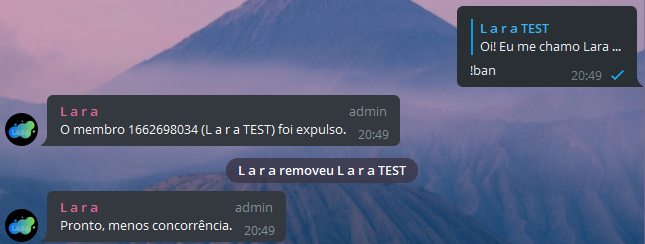
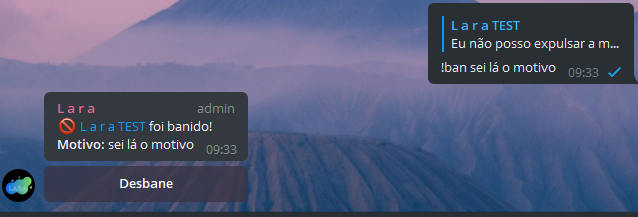
FEAT: Add Ban/Unban command

diff --git a/src/services/Verification-service/VerificationRepository.ts b/src/services/Verification-service/VerificationRepository.ts
@@ -2,23 +2,19 @@ import { IVerificationRepository } from './IVerificationRepository'
 import { maliciousLinkController } from '@database'
 import { compareTwoStrings } from 'string-similarity'
 import { Response } from '@dtos'
-import { URL } from 'url'
 
 
 export class VerificationRepository implements IVerificationRepository {
   async find_malicious_links(words:string[]): Promise<Response.Verification> {
     const result = {messages:[{text:'<b>PERSON</b>, não mande links maliciosos...'}], malicious:false}
 
-    const urls = this.get_urls_from_message(words).map(url => {
-      const parts = url.split('.')
-      return parts[0] === 'www' ? parts[1] : parts[0]
-    })
-
-    const maliciousUrls = await maliciousLinkController.find_all()
+    const urls = this.get_urls_from_message(words)
+    const maliciousUrls:string[] = []
+    await maliciousLinkController.find_all()
       .then(links => { 
-        if (links) return links.map(uri => { return new URL(String(uri.link_url)).hostname })
+        if (links) links.map(uri => maliciousUrls.push(this.get_urls_from_message([String(uri.link_url)])[0]) )
       })
-    
+
     if (maliciousUrls != null)
       urls.forEach(url => maliciousUrls.forEach(link => {
         if (compareTwoStrings(url, link) < 0.8) return
@@ -32,15 +28,20 @@ export class VerificationRepository implements IVerificationRepository {
     const urls:string[] = []
     const isURLRegex = 
       /^(?:(?:https?|ftp):\/\/)?(?:(?!(?:10|127)(?:\.\d{1,3}){3})(?!(?:169\.254|192\.168)(?:\.\d{1,3}){2})(?!172\.(?:1[6-9]|2\d|3[0-1])(?:\.\d{1,3}){2})(?:[1-9]\d?|1\d\d|2[01]\d|22[0-3])(?:\.(?:1?\d{1,2}|2[0-4]\d|25[0-5])){2}(?:\.(?:[1-9]\d?|1\d\d|2[0-4]\d|25[0-4]))|(?:(?:[a-z\u00a1-\uffff0-9]-*)*[a-z\u00a1-\uffff0-9]+)(?:\.(?:[a-z\u00a1-\uffff0-9]-*)*[a-z\u00a1-\uffff0-9]+)*(?:\.(?:[a-z\u00a1-\uffff]{2,})))(?::\d{2,5})?(?:\/\S*)?$/
-    
-    
 
-    words.forEach(word => { 
-      const irURL = isURLRegex.test(word)
-      try {
+    words.forEach(word => {
+      if (!isURLRegex.test(word)) return
 
-        urls.push(new URL(word).hostname)
-      } catch (err) {null}
+      let hostname:string
+    
+      if (word.indexOf('://') > -1) hostname = word.split('/')[2]
+      else hostname = word.split('/')[0]
+      
+      if (word.indexOf('www.') > -1) hostname = word.split('www.')[1]
+      hostname = hostname.split(':')[0]
+      hostname = hostname.split('?')[0]
+  
+      urls.push(hostname)
     })
     return urls
   }

diff --git a/src/services/Command-service/CommandController.ts b/src/services/Command-service/CommandController.ts
@@ -1,49 +1,13 @@
-import { taskLogger, messages, prefix } from '@config'
-import { Response, Command } from '@dtos'
-import { commands } from '@commands'
+import { Response } from '@dtos'
 import { Context } from 'telegraf'
-import { is_adm } from '@helpers'
+import { CommandUseCase } from './CommandUseCase'
 
 
 export class CommandController {
-  async handle(ctx:any): Promise<Response.Message[]|any> {
-    const splitedMessage = ctx.message?.text.substring(prefix.length).split(' ')
-    const [commandName, args] = [splitedMessage[0], splitedMessage.slice(1)]
-    const calledCommand = commands.filter(c => c.name == commandName)[0]
+  constructor ( private commandUseCase:CommandUseCase ){}
 
-    const statusError = await this.validate_status(ctx, calledCommand)
-    if (statusError) return statusError
-    
-    const argumentsError = this.validate_args(calledCommand.arguments, args)
-    if (argumentsError) 
-      return [{text:messages.argsError.replace('ARGS',commandName).replace('ERRORS',argumentsError)}]
-
-    taskLogger.log_step('✅','Comando', 'END', `Usaram o comando ${commandName}`)
-    const result = await calledCommand.execute(ctx, args)
+  async handle(ctx:Context): Promise<Response.Message[]|string[]> {
+    const result = await this.commandUseCase.execute(ctx)
     return Array.isArray(result) ? result : [result]
-  }
-
-  async validate_status(ctx:Context, command:Command|null): Promise<Response.Message[]|undefined> {
-    if (!command) return [{text: messages.commandNotFound}]
-    if (command.role === 'ADM') {
-      if (!ctx.chat?.type.includes('group')) return [{text:messages.isNot_group}]
-
-      const laraIsAdm = await is_adm(ctx, Number(process.env.BOT_ID))
-      const userIsAdm = await is_adm(ctx, Number(ctx.message?.from.id))
-      
-      if (!userIsAdm) return [{text:messages.isNot_adm}]
-      if (!laraIsAdm) return [{text:messages.lara_isNot_adm}]
-    }
-  }
-
-  validate_args(cmd_args:{index:number, error:string}[], args:string[]): string|null {
-    let error_message = ''
-
-    for (const field of cmd_args)
-      error_message = args[field.index]
-        ? error_message
-        : `${error_message}❗${field.error}\n`
-        
-    return error_message !== '' ? error_message : null
   }
 }

diff --git a/src/helpers/actions.ts b/src/helpers/actions.ts
@@ -1,0 +1,60 @@
+import { chatController, commandController, verificationController } from '@services'
+import { messages, prefix, taskLogger } from '@config'
+import { groupController } from '@database'
+import { is_adm, send_response } from '@helpers'
+import { Telegraf } from 'telegraf'
+
+
+export const actions = (bot: Telegraf) => {
+  bot.use(async (ctx, next) => {
+    console.time('Processing time')
+    await next()
+    console.timeEnd('Processing time')
+  })
+
+  bot.on('text', async ctx => {
+    const verification = await verificationController.handle(ctx, 'text')
+    if (verification.malicious) return send_response(ctx, verification.messages)
+    
+    send_response(ctx, ctx.message.text.startsWith(prefix)
+      ? await commandController.handle(ctx)
+      : await chatController.handle(ctx)
+    )
+  })
+
+  bot.action('unban', async (ctx:any) => {
+    if (!is_adm(ctx, ctx.callbackQuery.from.id)) return {text: messages.isNot_adm}
+
+    const entities = ctx.callbackQuery.message?.entities
+    
+    if (entities[0].type === 'text_mention') {
+      try {
+        await ctx.unbanChatMember(entities[0].user.id)
+        await ctx.reply('📕 Usuário desbanido.')
+    
+      } catch (e) { await ctx.reply('⚠ Não posso desbanir esse usuário!' ) }
+    }
+  })
+
+  bot.on('left_chat_member', async ctx => {
+    if (ctx.chat.type === 'private') return
+    const member = ctx.update.message.left_chat_member
+  
+    if (member.id === bot.botInfo?.id) {
+      await groupController.delete_one(ctx.chat.id)
+      taskLogger.log_step('😢','REMOVED', 'ACTION', `Fui removida de ${ctx.chat.title} (${ctx.chat.id})`)
+  
+    } else if (member.is_bot)
+      return send_response(ctx, [{text: 'Pronto, menos concorrência.'}])
+  })
+
+  bot.on('new_chat_members', ctx => {
+    ctx.update.message.new_chat_members.forEach(async new_member => {
+      if (!ctx.chat.type.includes('group')) return
+      if (new_member.id !== bot.botInfo?.id) return
+      
+      groupController.register_group(ctx.chat.id)
+      send_response(ctx, [{text:messages.lara_join}])
+    })
+  })
+}

diff --git a/src/main.ts b/src/main.ts
@@ -1,7 +1,5 @@
-import { chatController, commandController, verificationController } from '@services'
-import { groupController } from '@database'
-import { messages, prefix, taskLogger, connect_mongo } from '@config'
-import { send_response } from '@helpers'
+import { messages, taskLogger, connect_mongo } from '@config'
+import { actions, send_response } from '@helpers'
 import { Telegraf } from 'telegraf'
 import chalk from 'chalk'
  
@@ -19,48 +17,11 @@ export const bot = ((): Telegraf => {
     : new Telegraf(String(process.env.BOT_TOKEN))
 })()
 
-
 bot.telegram.getMe().then(() => taskLogger.log_step('⚙','Init', 'END', 'Lara Iniciada com sucesso'))
 bot.start(ctx => send_response(ctx,[{text: messages.lara_start}]))
-
-
-bot.use(async (ctx, next) => {
-  next()
-})
-
-bot.on('text', async ctx => {
-  const verification = await verificationController.handle(ctx)
-  if (verification.malicious) return send_response(ctx, verification.messages)
-  
-  send_response(ctx, ctx.message.text.startsWith(prefix)
-    ? await commandController.handle(ctx)
-    : await chatController.handle(ctx)
-  )
-})
-
-
-bot.on('left_chat_member', async ctx => {
-  if (ctx.chat.type === 'private') return
-  const member = ctx.update.message.left_chat_member
-
-  if (member.id === bot.botInfo?.id) {
-    await groupController.delete_one(ctx.chat.id)
-    taskLogger.log_step('😢','REMOVED', 'ACTION', `Fui removida de ${ctx.chat.title} (${ctx.chat.id})`)
-
-  } else if (member.is_bot)
-    return send_response(ctx, [{text: 'Pronto, menos concorrência.'}])
-})
-
-bot.on('new_chat_members', ctx => {
-  ctx.update.message.new_chat_members.forEach(async new_member => {
-    if (!ctx.chat.type.includes('group')) return
-    if (new_member.id !== bot.botInfo?.id) return
-    
-    groupController.register_group(ctx.chat.id)
-    send_response(ctx, [{text:messages.lara_join}])
-  })
-})
-
 bot.launch({dropPendingUpdates: true})
+
+actions(bot)
+
 process.once('SIGINT', () => bot.stop('SIGINT'))
 process.once('SIGTERM', () => bot.stop('SIGTERM'))

diff --git a/src/commands/administration/ban.ts b/src/commands/administration/ban.ts
@@ -7,25 +7,30 @@ class Ban implements Command {
   public name = 'ban'
   public role = 'ADM'
   public emoji = '❌'
-  public description = 'Bane um usuário. Você pode usar o ID ou marcar uma mensagem desse usuário.'
+  public description = 
+    'Bane um usuário. <b>OBS: Você precisa marcar uma mensagem desse usuário</b>.\n\n'+
+    'Ex: PREFIXban <motivo do banimento>'
   public arguments = []
 
   
   public async execute(ctx:any, args:string[]): Promise<Response.Message> {
     const marked = ctx.update.message.reply_to_message
     
-    if (!args[0] && !marked) 
-      return {text:'Você deve marcar uma mensagem, ou colocar o ID dessa pessoa.'}
+    if (!marked) return {text:'Você deve marcar uma mensagem do usuário que quer banir.'}
+    if (!(await ctx.getChatMember(marked.from.id))) return {text:'Esse usuário não está no grupo'}
 
-    const toBan = !isNaN(Number(args[0])) ? Number(args[0]) : marked.from.id
-    const member = await ctx.getChatMember(toBan)
+    const reason = args.length === 0 ? 'Não especificado\\.' : args.join(' ')
+    const member = await ctx.getChatMember(marked.from.id)
     const isAdm = is_adm(ctx, member.user.id)
 
     if (member.user.id == bot.botInfo?.id || !isAdm) 
       return {text:'Eu não posso expulsar esse membro...'}
-
-    ctx.kickChatMember(toBan)
-    return {text:`O membro ${member.user.id} (${member.user.first_name}) foi expulso.`}
+  
+    ctx.kickChatMember(member.user.id)
+    return {
+      text: `🚫 <a href="tg://user?id=${member.user.id}">${member.user.first_name}</a> foi banido!\n<b>Motivo:</b> ${reason}`,
+      markup: {inline_keyboard:[[{text:'Desbane', callback_data: 'unban'}]]}
+    }
   }
 }
 

diff --git a/src/services/Command-service/CommandRepository.ts b/src/services/Command-service/CommandRepository.ts
@@ -1,0 +1,32 @@
+import { ICommandRepository } from './ICommandRepository'
+import { Command, Response } from '@dtos'
+import { Context } from 'telegraf'
+import { messages } from '@config'
+import { is_adm } from '@src/helpers'
+
+
+export class CommandRepository implements ICommandRepository {
+  async validate_status(ctx:Context, command:Command|null): Promise<Response.Message[]|undefined> {
+    if (!command) return [{text: messages.commandNotFound}]
+    if (command.role === 'ADM') {
+      if (!ctx.chat?.type.includes('group')) return [{text:messages.isNot_group}]
+
+      const laraIsAdm = await is_adm(ctx, Number(process.env.BOT_ID))
+      const userIsAdm = await is_adm(ctx, Number(ctx.message?.from.id))
+      
+      if (!userIsAdm) return [{text:messages.isNot_adm}]
+      if (!laraIsAdm) return [{text:messages.lara_isNot_adm}]
+    }
+  }
+
+  validate_arguments(cmd_args:{index:number, error:string}[], args:string[]): string|null {
+    let error_message = ''
+
+    for (const field of cmd_args)
+      error_message = args[field.index]
+        ? error_message
+        : `${error_message}❗${field.error}\n`
+        
+    return error_message !== '' ? error_message : null
+  }
+}

diff --git a/src/services/Command-service/CommandUseCase.ts b/src/services/Command-service/CommandUseCase.ts
@@ -1,0 +1,25 @@
+import { messages, prefix, taskLogger } from '@config'
+import { Response } from '@dtos'
+import { commands } from '@src/commands'
+import { ICommandRepository } from './ICommandRepository'
+
+
+export class CommandUseCase {
+  constructor(private commandRepository: ICommandRepository) {}
+
+  async execute(ctx:any): Promise<Response.Message|Response.Message[]|string[]> {
+    const splitedMessage = ctx.message?.text.substring(prefix.length).split(' ')
+    const [commandName, args] = [splitedMessage[0], splitedMessage.slice(1)]
+    const calledCommand = commands.filter(c => c.name == commandName)[0]
+
+    const statusError = await this.commandRepository.validate_status(ctx, calledCommand)
+    if (statusError) return statusError
+    
+    const argumentsError = this.commandRepository.validate_arguments(calledCommand.arguments, args)
+    if (argumentsError) 
+      return [{text:messages.argsError.replace('ARGS',commandName).replace('ERRORS',argumentsError)}]
+
+    taskLogger.log_step('✅','Comando', 'END', `Usaram o comando ${commandName}`)
+    return await calledCommand.execute(ctx, args)
+  }
+}

diff --git a/src/helpers/sender.ts b/src/helpers/sender.ts
@@ -2,15 +2,12 @@ import { prefix } from '@config'
 import { Response } from '@dtos'
 
 
-// Main function
 export function send_response(ctx:any, responses:Response.Message[]|string[]): void {
   typeof responses[0] == 'string'
     ? send_many_texts_in_one_message(ctx, responses as string[])
     : (responses as Response.Message[]).forEach(msg => send_one_message(ctx, msg))
 }
 
-
-// Holder functions
 function replace_holders(ctx:any, message:string) {
   return message
     .replace('PERSON', ctx.from.first_name)
@@ -18,7 +15,6 @@ function replace_holders(ctx:any, message:string) {
 }
 
 
-// Sending methods
 function send_many_texts_in_one_message(ctx:any, contents:string[]): void {
   let to_send:string[] = []
 

diff --git a/src/config/setup.ts b/src/config/setup.ts
@@ -17,7 +17,8 @@ export async function connect_mongo() {
   mongoose.set('useUnifiedTopology', true)
   mongoose.set('useCreateIndex', true)
 
-  const url = process.argv.includes('--db-test') ? possibleConnections.localDB : possibleConnections.localDB
+  const url = process.argv.includes('--db-test') || process.argv.includes('test')
+    ? possibleConnections.localDB : possibleConnections.localDB
 
   await mongoose.connect(url)
     .then(() => new TaskLogger().log_step('✅','DATABASE', 'END', 'Banco de dados iniciado com sucesso'))

diff --git a/src/services/Chat-service/ChatRepository.ts b/src/services/Chat-service/ChatRepository.ts
@@ -27,7 +27,7 @@ export class ChatRepository implements IChatRepository {
       if (compareTwoStrings(context, message.toLowerCase()) < .65) continue
       
       for (let x=0; x < responses.length; x++) {
-        if (responses[x].min <= hour || hour <= responses[x].max)
+        if (responses[x].min <= hour && hour <= responses[x].max)
           return [responses[x]
             .messages[Math.floor(Math.random() * (responses[x].messages.length-0) + 0)]]
       }

diff --git a/src/services/Command-service/index.ts b/src/services/Command-service/index.ts
@@ -1,3 +1,7 @@
 import { CommandController } from './CommandController'
+import { CommandUseCase } from './CommandUseCase'
+import { CommandRepository } from './CommandRepository'
 
-export const commandController = new CommandController()
+const commandRepository = new CommandRepository
+const commandUseCase = new CommandUseCase(commandRepository)
+export const commandController = new CommandController(commandUseCase)

diff --git a/src/services/Verification-service/VerificationController.ts b/src/services/Verification-service/VerificationController.ts
@@ -6,7 +6,8 @@ import { VerificationUseCase } from './VerificationUseCase'
 export class VerificationController {
   constructor ( private verificationUseCase:VerificationUseCase ){}
 
-  async handle(ctx:Context): Promise<Response.Verification> {
+  async handle(ctx:Context, type:string): Promise<Response.Verification> {
+    console.log(type)
     return await this.verificationUseCase.execute(ctx)
   }
 }
